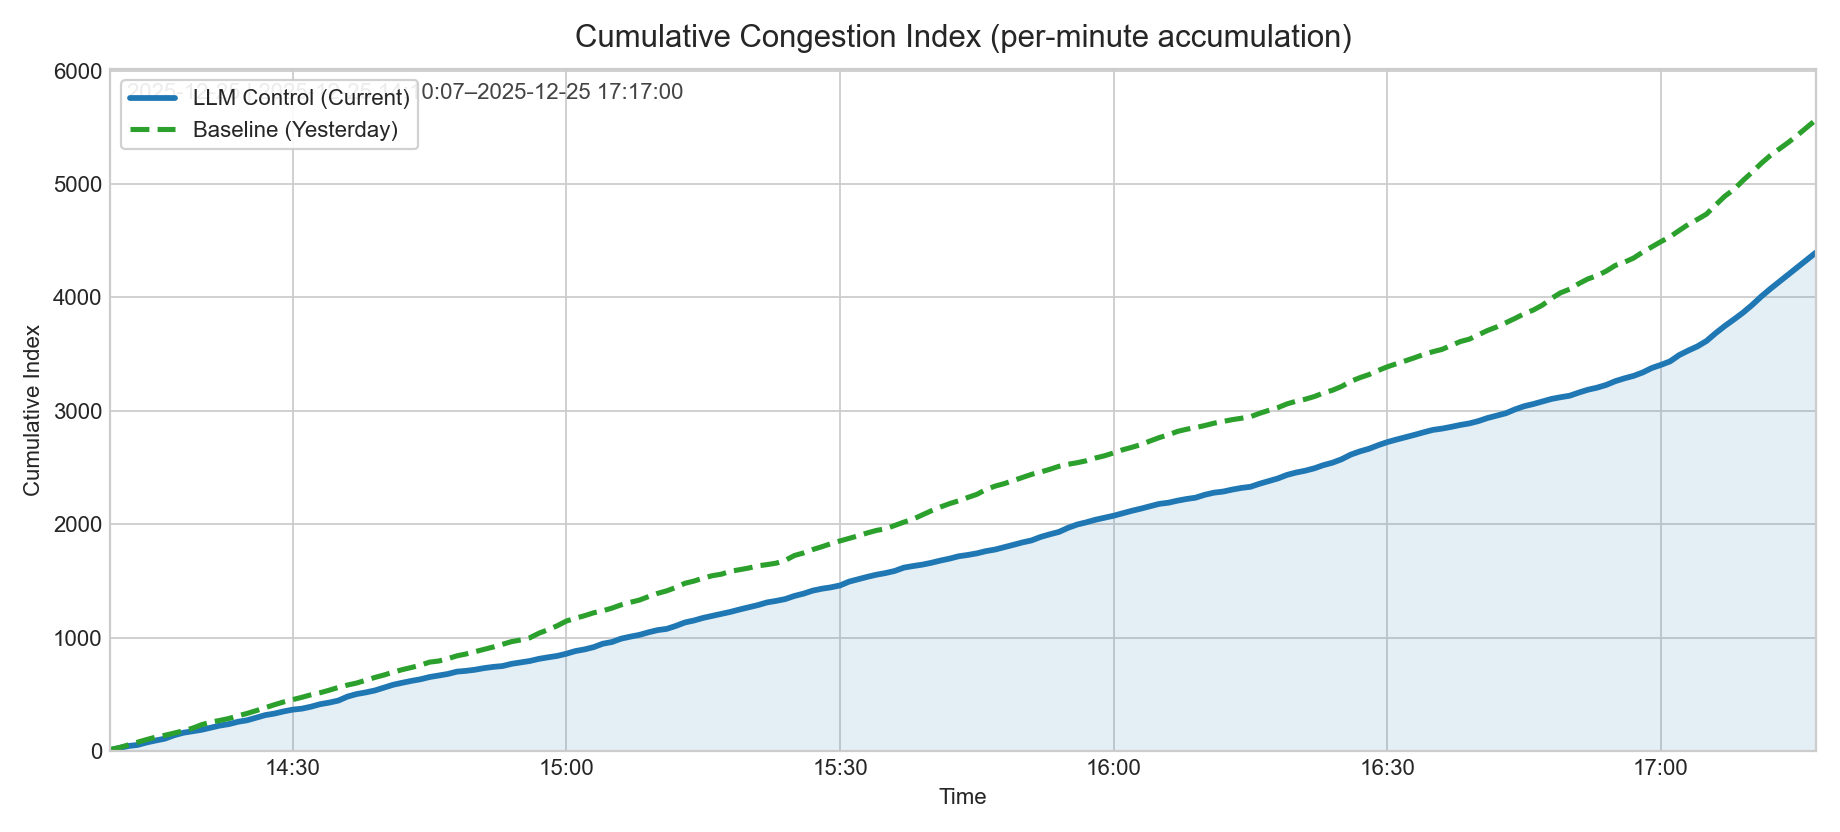
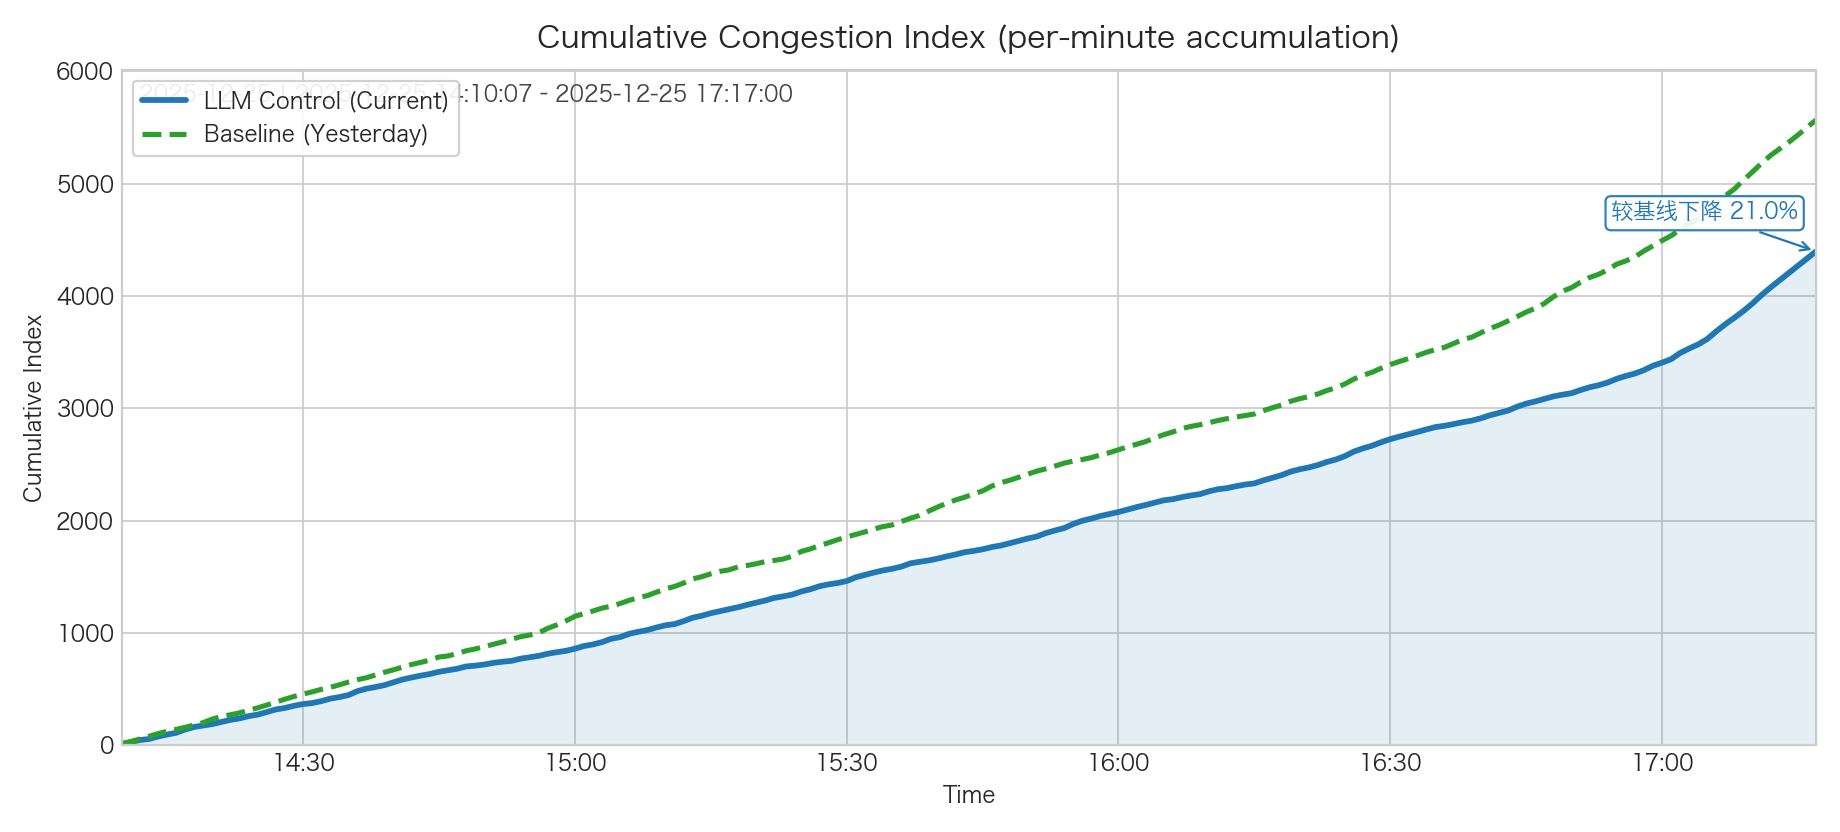
upd readme

diff --git a/README_zh.md b/README_zh.md
@@ -60,8 +60,8 @@ DeepSignal 是我们自主微调的交通信号控制大模型，当前发布版
 
 - **平均饱和度**（`average_saturation`）
 - **平均排队长度**（`average_queue_length`）
-- **最大饱和度**（`max_saturation`）
-- **最大排队长度**（`max_queue_length`）
+- **平均车通量**（veh/min）
+- **平均响应时间**（s；仅大模型）
 
 #### 指标计算方式（公式）
 
@@ -80,25 +80,26 @@ DeepSignal 是我们自主微调的交通信号控制大模型，当前发布版
 \bar{X}_t=\sum_l w_{t,l} X_{t,l}, \quad \bar{q}_t=\sum_l w_{t,l} q_{t,l}
 ```
 
-- 对时间窗口内 $T$ 个仿真步求窗口均值/最大值：
+- 对时间窗口内 $T$ 个仿真步求窗口均值：
   - `average_saturation` $=\dfrac{1}{T}\sum_{t=1}^{T}\bar{X}_t$
   - `average_queue_length` $=\dfrac{1}{T}\sum_{t=1}^{T}\bar{q}_t$
-  - `max_saturation` $=\max_t \bar{X}_t$
-  - `max_queue_length` $=\max_t \bar{q}_t$
 
 ### 不同模型的指标对比表 $^{*}$
 
-| 模型 | 平均饱和度* | 平均排队长度 | 最大饱和度* | 最大排队长度 | 平均车通量（veh/min） | 响应成功率（%） | 平均响应时间(s) |
-|:---:|:---:|:---:|:---:|:---:|:---:|:---:|:---:|
-| [`GPT-OSS-20B`](https://huggingface.co/openai/gpt-oss-20b) | 0.1993 | 2.1500 | 0.8101 | 21.0000 | 38.8758 | 99.33 | 6.768 |
-| **DeepSignal-4B (Ours)** | 0.1773 | 2.1167 | 0.6842 | 21.0000 | 32.9121 | 100.00 | 2.131 |
-| [`Qwen3-30B-A3B`](https://huggingface.co/Qwen/Qwen3-VL-30B-A3B-Instruct) | 0.1856 | 2.5500 | 0.7907 | 23.0000 | 31.9945 | 100.00 | 2.727 |
-| [`Qwen3-4B`](https://huggingface.co/Qwen/Qwen3-4B-Instruct-2507) | 0.1882 | 1.8167 | 0.7805 | 22.0000 | 30.2961 | 100.00 | 1.994 |
-| Max Pressure | 0.1859 | 1.8667 | 0.5714 | 25.0000 | 29.7832 | ** | ** |
-| [`LightGPT-8B-Llama3`](https://huggingface.co/lightgpt/LightGPT-8B-Llama3) | 0.2425 | 2.1667 | 0.4706 | 20.0000 | 27.4091 | 7.17 | 3.025 |
+| 模型 | 平均饱和度* | 平均排队长度 | 平均车通量（veh/min） | 平均响应时间(s) |
+|:---:|:---:|:---:|:---:|:---:|
+| [`GPT-OSS-20B（thinking）`](https://huggingface.co/openai/gpt-oss-20b) | 0.1993 | 2.1500 | 38.8758 | 6.768 |
+| **DeepSignal-4B (Ours)** | 0.1773 | 2.1167 | 32.9121 | 2.131 |
+| [`Qwen3-30B-A3B`](https://huggingface.co/Qwen/Qwen3-VL-30B-A3B-Instruct) | 0.1856 | 2.5500 | 31.9945 | 2.727 |
+| [`Qwen3-4B`](https://huggingface.co/Qwen/Qwen3-4B-Instruct-2507) | 0.1882 | 1.8167 | 30.2961 | 1.994 |
+| Max Pressure | 0.1859 | 1.8667 | 29.7832 | ** |
+| [`LightGPT-8B-Llama3`](https://huggingface.co/lightgpt/LightGPT-8B-Llama3) | 0.2425 | 2.1667 | 27.4091 | 3.025*** |
 
-`*`：我们用于评估的每一个仿真场景的时长是 60 min，但我们计算指标值使用了每一个仿真的前 20 分钟的统计数据。原因是我们发现在路网上用大模型只控制单个交叉口的信号配时的时候，周边交叉口的排队车辆会在 20 分钟以后溢出到当前被控制的交叉口，从而导致仿真场景崩溃，指标计算不准确。  
-`**`：Max Pressure 是一种信号配时优化的固定算法，并非大模型，因此指标统计中忽略其响应成功率和平均响应时间的计算，这两个指标都仅针对利用大模型进行信号配时优化的场景。  
+`*`：每个仿真场景总时长为 60 min。我们先去除前 **5 min** 的 warm-up（预热）阶段，然后使用紧随其后的 **20 min**（即第 5–25 分钟）数据计算指标。之所以将评估窗口限制在 20 min 内，是因为在路网上仅控制单个路口时，周边路口排队可能在约 20+ min 后回溢到被控路口，从而导致仿真不稳定、指标不可靠。  
+`**`：Max Pressure 是一种信号配时优化的固定算法，并非大模型，因此指标统计中忽略其平均响应时间的计算；该指标仅针对利用大模型进行信号配时优化的场景。  
+`***`：LightGPT-8B-Llama3 的平均响应时间仅在成功返回的样本上统计（其成功率较低，因此该数值不宜与其他模型直接横向对比）。
+
+**结论**：带 thinking 的模型（如 GPT-OSS-20B）在控制效果上往往更强，但通常会带来更长的响应时间；在 **Non-Thinking** 的大模型基线中，**DeepSignal-4B** 在我们的评估中表现最佳。
 
 
 
@@ -151,7 +152,7 @@ $$
 ![Congestion Index Time-series Comparison](images/congestion_index_timeseries_comparison.gif)
 
 累计拥堵指数对比：
-![Cumulative Congestion Index Comparison](images/congestion_index_cumulative_comparison.png)
+![Cumulative Congestion Index Comparison](images/congestion_index_cumulative_comparison_zh.png)
 
 
 

diff --git a/README.md b/README.md
@@ -61,8 +61,8 @@ We evaluate DeepSignal in **SUMO simulation** using intersection-level metrics c
 
 - **Avg Saturation** (`average_saturation`)
 - **Avg Queue Length** (`average_queue_length`)
-- **Max Saturation** (`max_saturation`)
-- **Max Queue Length** (`max_queue_length`)
+- **Avg Throughput** (veh/min)
+- **Avg Response Time** (s; LLM-only)
 
 #### Metric computation (formulas)
 
@@ -82,22 +82,23 @@ Let $t$ index simulation steps in a time window, and $l$ index controlled lanes 
 - Window metrics over $T$ steps:
   - `average_saturation` $= \dfrac{1}{T}\sum_{t=1}^{T}\bar{X}_t$
   - `average_queue_length` $= \dfrac{1}{T}\sum_{t=1}^{T}\bar{q}_t$
-  - `max_saturation` $= \max_t \bar{X}_t$
-  - `max_queue_length` $= \max_t \bar{q}_t$
 
 ### Performance Metrics Comparison by Model $^{*}$
 
-| Model | Avg Saturation* | Avg Queue Length | Max Saturation* | Max Queue Length | Avg Throughput (veh/min) | Response Success Rate (%) | Avg Response Time(s) |
-|:---:|:---:|:---:|:---:|:---:|:---:|:---:|:---:|
-| [`GPT-OSS-20B`](https://huggingface.co/openai/gpt-oss-20b) | 0.1993 | 2.1500 | 0.8101 | 21.0000 | 38.8758 | 99.33 | 6.768 |
-| **DeepSignal-4B (Ours)** | 0.1773 | 2.1167 | 0.6842 | 21.0000 | 32.9121 | 100.00 | 2.131 |
-| [`Qwen3-30B-A3B`](https://huggingface.co/Qwen/Qwen3-VL-30B-A3B-Instruct) | 0.1856 | 2.5500 | 0.7907 | 23.0000 | 31.9945 | 100.00 | 2.727 |
-| [`Qwen3-4B`](https://huggingface.co/Qwen/Qwen3-4B-Instruct-2507) | 0.1882 | 1.8167 | 0.7805 | 22.0000 | 30.2961 | 100.00 | 1.994 |
-| Max Pressure | 0.1859 | 1.8667 | 0.5714 | 25.0000 | 29.7832 | ** | ** |
-| [`LightGPT-8B-Llama3`](https://huggingface.co/lightgpt/LightGPT-8B-Llama3) | 0.2425 | 2.1667 | 0.4706 | 20.0000 | 27.4091 | 7.17 | 3.025 |
+| Model | Avg Saturation* | Avg Queue Length | Avg Throughput (veh/min) | Avg Response Time (s) |
+|:---:|:---:|:---:|:---:|:---:|
+| [`GPT-OSS-20B (thinking)`](https://huggingface.co/openai/gpt-oss-20b) | 0.1993 | 2.1500 | 38.8758 | 6.768 |
+| **DeepSignal-4B (Ours)** | 0.1773 | 2.1167 | 32.9121 | 2.131 |
+| [`Qwen3-30B-A3B`](https://huggingface.co/Qwen/Qwen3-VL-30B-A3B-Instruct) | 0.1856 | 2.5500 | 31.9945 | 2.727 |
+| [`Qwen3-4B`](https://huggingface.co/Qwen/Qwen3-4B-Instruct-2507) | 0.1882 | 1.8167 | 30.2961 | 1.994 |
+| Max Pressure | 0.1859 | 1.8667 | 29.7832 | ** |
+| [`LightGPT-8B-Llama3`](https://huggingface.co/lightgpt/LightGPT-8B-Llama3) | 0.2425 | 2.1667 | 27.4091 | 3.025*** |
 
-`*`: Each simulation scenario runs for 60 minutes, but metrics are computed using only the first 20 minutes of data. We observed that when an LLM controls signal timing for only a single intersection in the network, queues from neighboring intersections may spill back into the controlled intersection after ~20 minutes, causing the scenario to break and making the metrics unreliable.  
-`**`: Max Pressure is a fixed signal-timing optimization algorithm (not an LLM), so we omit its Response Success Rate and Avg Response Time; these two metrics are only defined for LLM-based signal-timing optimization.  
+`*`: Each simulation scenario runs for 60 minutes. We discard the first **5 minutes** as warm-up, then compute metrics over the next **20 minutes** (minute 5 to 25). We cap the evaluation window because, when an LLM controls signal timing for only a single intersection, spillback from neighboring intersections may occur after ~20+ minutes and destabilize the scenario.  
+`**`: Max Pressure is a fixed signal-timing optimization algorithm (not an LLM), so we omit its Avg Response Time; this metric is only defined for LLM-based signal-timing optimization.  
+`***`: For LightGPT-8B-Llama3, Avg Response Time is computed using only the successful responses (its success rate is low, so this number is not directly comparable).
+
+**Conclusion**: Thinking-enabled models (e.g., GPT-OSS-20B) can achieve strong control performance, but typically incur higher response latency. Among **non-thinking** LLM baselines, **DeepSignal-4B** is the best-performing model in our evaluation.
 
 
 ## Chengdu Real-world Deployment Comparison
@@ -149,7 +150,7 @@ Congestion index time-series comparison:
 ![Congestion Index Time-series Comparison](images/congestion_index_timeseries_comparison.gif)
 
 Cumulative congestion index comparison:
-![Cumulative Congestion Index Comparison](images/congestion_index_cumulative_comparison.png)
+![Cumulative Congestion Index Comparison](images/congestion_index_cumulative_comparison_en.png)
 
 
 ## Model files (GGUF) and local inference